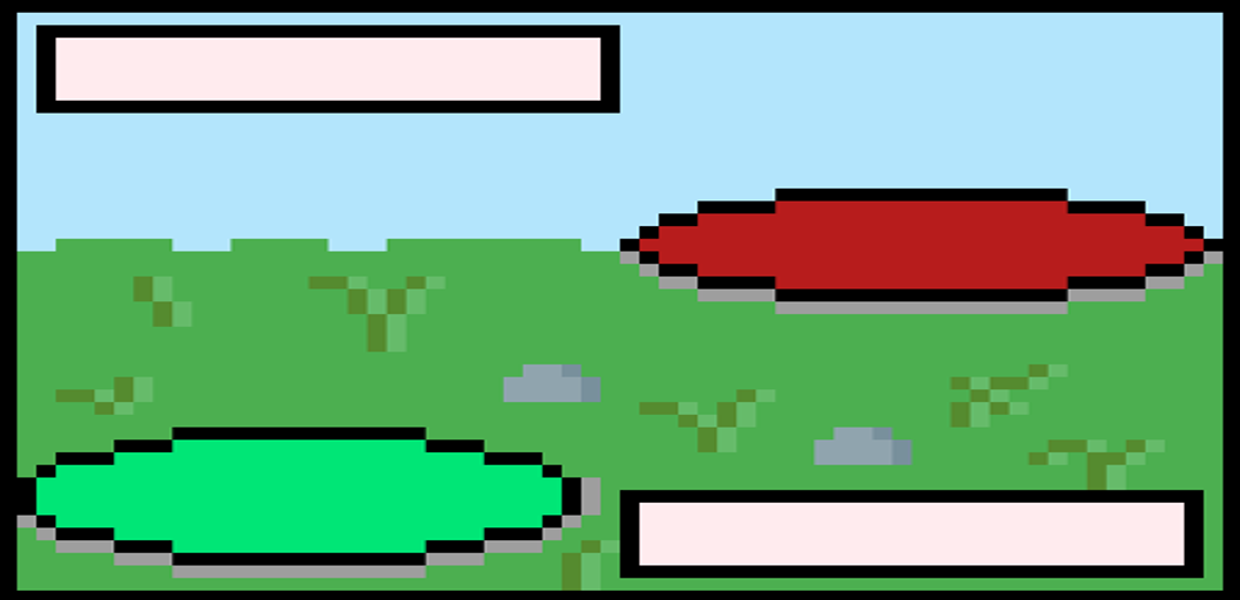
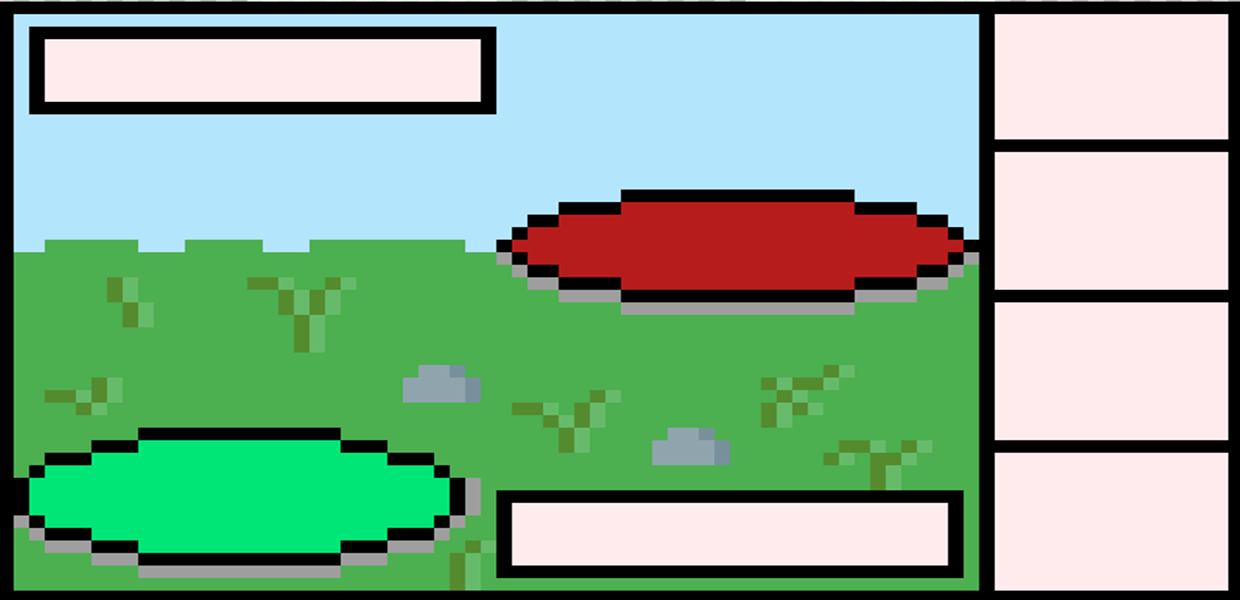
Tall grass plus back sprite

diff --git a/main.py b/main.py
@@ -7,7 +7,6 @@ from GUI.settings import *
 from GUI.player_sprite import *
 from GUI.teacher_sprite import *
 from random import randint
-
 class Game:
     def __init__(self):
         pg.init()
@@ -30,12 +29,14 @@ class Game:
         for x in range(0, GRIDWIDTH):
             for j in range(0, GRIDHEIGHT):
                 Grass(self, x, j)
+        self.danger = [(randint(0, GRIDWIDTH), randint(0, GRIDHEIGHT))]
         for x in range(5, 10):
             for j in range(5, 10):
                 TallGrass(self, x, j)
-        self.danger = [randint(0, GRIDWIDTH), randint(0, GRIDHEIGHT)]
-        Teacher1(self, self.danger[0], self.danger[1])
-        self.player = Player(self, 5, 5)
+                self.danger += [(x, j)]
+        Teacher1(self, self.danger[0][0], self.danger[0][1])
+        self.dangersquares = len(self.danger)
+        self.player = Player(self, 4, 5)
 
     def battle(self):
         self.all_sprites = pg.sprite.Group()
@@ -58,8 +59,13 @@ class Game:
     def update(self):
         # update portion of the game loop
         self.all_sprites.update()
-        if(self.player.x == self.danger[0] and self.player.y == self.danger[1]):
+        if(self.player.position == self.danger[0]):
             self.battle()
+        for x in range(self.dangersquares):
+            if self.player.position == self.danger[x]:
+                if self.random_key == 5:
+                    self.battle()
+
 
     def draw_grid(self):
         for x in range(0, WIDTH, TILESIZE):
@@ -79,6 +85,7 @@ class Game:
             if event.type == pg.QUIT:
                 self.quit()
             if event.type == pg.KEYDOWN:
+                self.random_key = randint(0, 9)
                 if event.key == pg.K_ESCAPE:
                     self.quit()
                 if event.key == pg.K_LEFT:

diff --git a/GUI/player_sprite.py b/GUI/player_sprite.py
@@ -8,16 +8,23 @@ class Player(pg.sprite.Sprite):
         self.groups = game.all_sprites
         pg.sprite.Sprite.__init__(self, self.groups)
         self.game = game
-        self.filepath = 'GUI/pngs/test.png'
+        self.filepath = 'GUI/pngs/test-front.png'
         image_resizer(self.filepath)
+        image_resizer(self.filepath[0:-9] + 'back.png')
         self.image = pg.image.load(self.filepath[0:-4] + "-resized.png")
         self.rect = self.image.get_rect()
         self.x = x
         self.y = y
+        self.position = (self.x, self.y)
 
     def move(self, dx=0, dy=0):
         self.x += dx
         self.y += dy
+        self.position = (self.x, self.y)
+        if dy == -1:
+            self.image = pg.image.load(self.filepath[0:-9] + "back-resized.png")
+        elif dy == 1:
+            self.image = pg.image.load(self.filepath[0:-4] + "-resized.png")
 
     def update(self):
         self.rect.x = self.x * TILESIZE

diff --git a/to-do.md b/to-do.md
@@ -1,0 +1,5 @@
+## MIKE ##
+
+1. Create rotated graphics for player
+2. Create battle class
+3. Create randomized tall grass encounters
